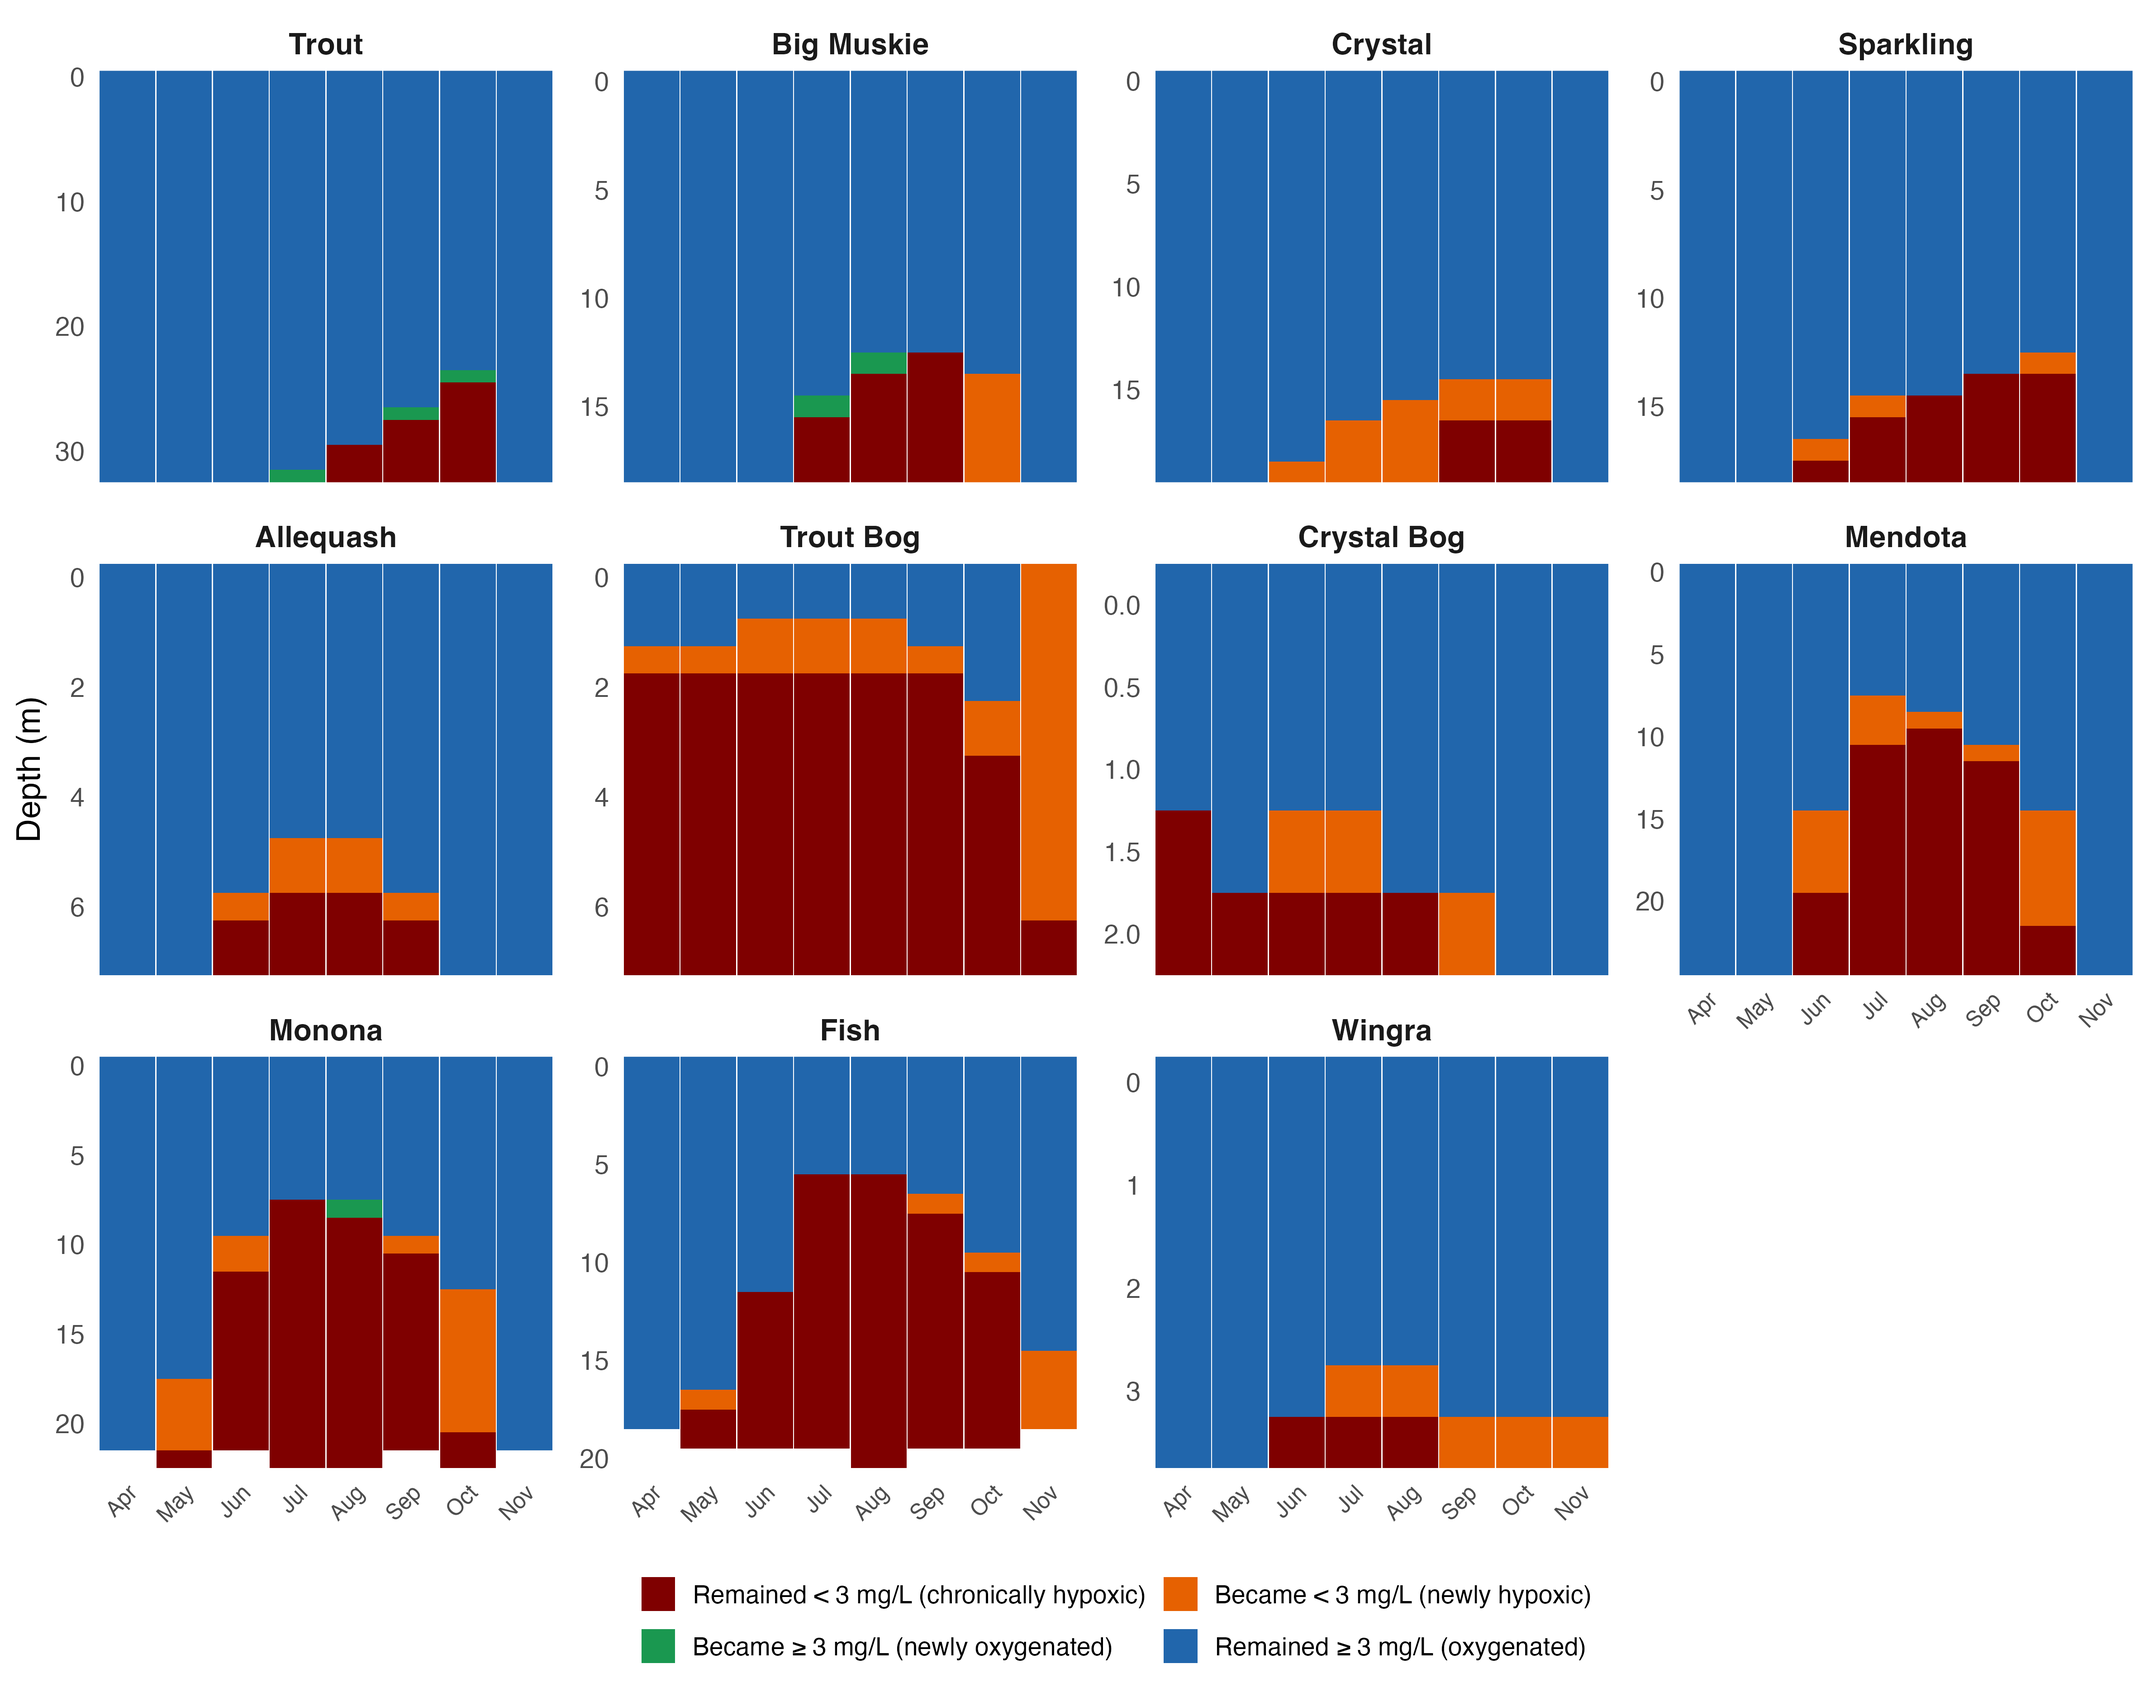
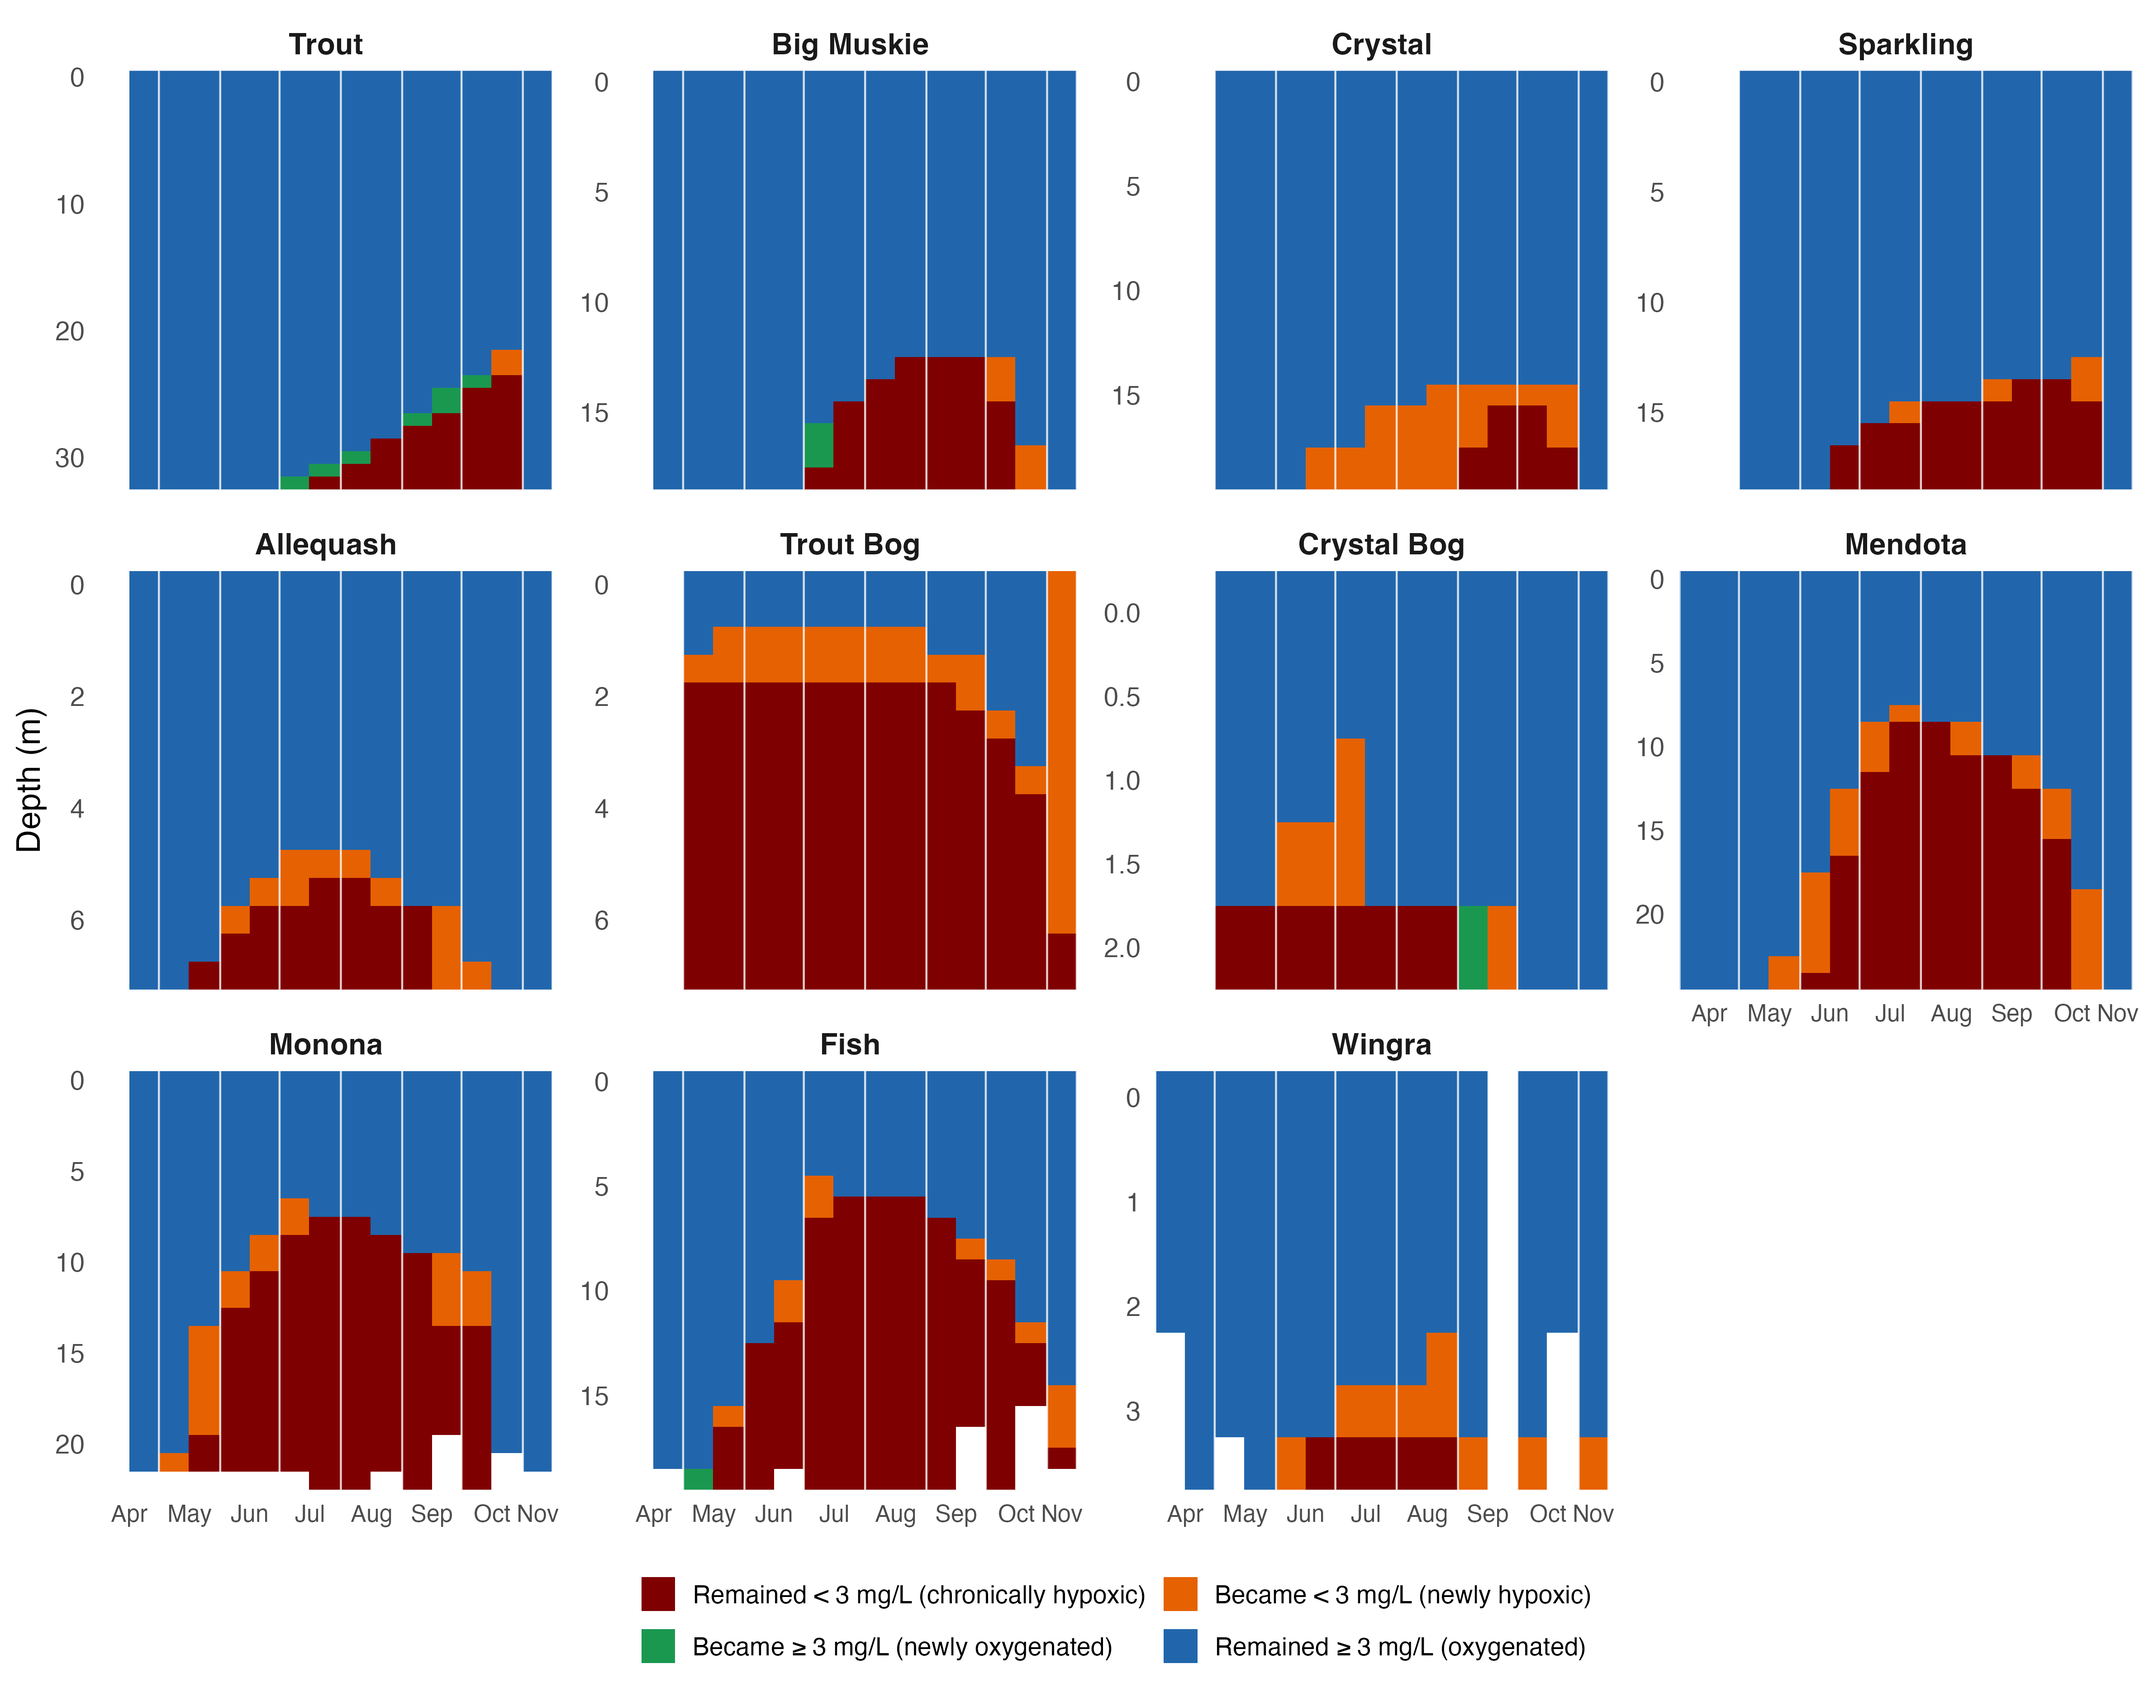
Figure5_habitability: half-month periods instead of calendar months
Switches from 8 monthly bins to Figure1_rate_of_change.R's 15
half-month bins (same Apr 1-Nov 15 edges), giving a smoother, finer
view of when each depth window crosses the 3 mg/L habitat threshold.

diff --git a/README.md b/README.md
@@ -25,7 +25,7 @@ which reads `figures/fig02_trends_table.csv` for its DOC/Secchi arrows.
 | `Figure1_rate_of_change.R` | `fig01_rate_mgL.png`, `fig01_rate_sat.png` — Theil-Sen trend heatmaps by depth & season, all 11 lakes. The DOC/Secchi arrows beside each lake name are read from `figures/fig02_trends_table.csv` rather than fit here — **run `Figure2_clarity_trends.R` first** |
 | `Figure3_o2_profiles.R` | `fig03_o2_profiles.png` — August DO (% saturation) depth profile, all 11 lakes, four overlaid decade medians (1985-1995 / 1995-2005 / 2005-2015 / 2015-2025, blue->green->orange->red). No annotations (no anoxic-boundary markers, no metalimnetic-O2-max diamonds) — just the raw profile shape across decades. Panels built individually + assembled with patchwork (not facet_wrap) so the gap left by the 7th northern lake is a true blank space and the legend is extracted once and placed manually. Independent of the other two `Figure*.R` scripts. Also writes `fig03_o2_profiles_leveladjusted.png` — Crystal/Sparkling/Big Muskellunge only, same decade medians but with each cast's depth adjusted for that day's interpolated lake level (`data/lake_levels.csv`, EDI 30) referenced to the lake's own long-term median level, so depth reads as distance below the long-term average surface rather than below whatever the surface was that day |
 | `Figure4_chl_profiles.R` | `fig04_chl_profiles.png` — August chlorophyll profile shift (1995-2005 vs 2016-2025), 4 northern deep oligotrophic lakes, one row |
-| `Figure5_habitability.R` | `fig05_habitability.png` — habitability by depth x month, all 11 lakes (facet per lake, north then south by zmax). Per lake x depth bin (0.5 m <10 m zmax, 1 m otherwise, same rule as `Figure1_rate_of_change.R`) x month (Apr-Nov), compares median DO (mg/L) baseline (pre-2016) vs recent (2016-2025) against a 3 mg/L habitat threshold: dark red = remained hypoxic, orange = newly hypoxic, green = newly oxygenated, blue = remained oxygenated. Blank = <4 years of data in either era for that cell. Independent of the other `Figure*.R` scripts |
+| `Figure5_habitability.R` | `fig05_habitability.png` — habitability by depth x half-month period, all 11 lakes (facet per lake, north then south by zmax). Per lake x depth bin (0.5 m <10 m zmax, 1 m otherwise) x half-month period (Apr 1-Nov 15, same bin edges as `Figure1_rate_of_change.R`), compares median DO (mg/L) baseline (pre-2016) vs recent (2016-2025) against a 3 mg/L habitat threshold: dark red = remained hypoxic, orange = newly hypoxic, green = newly oxygenated, blue = remained oxygenated. Blank = <4 years of data in either era for that cell. Independent of the other `Figure*.R` scripts |
 | `FigureSD_BM_o2sat.R` | `figSD_BM_o2sat_1996-05.png` (+ legend) — Big Muskellunge O2 saturation panel |
 | `FigureSX_metalimnionwindow.R` | `figSX_metalimnion_window.png` — the metalimnion as a "ribbon through time," all 11 lakes, full 1981-2025 record. Same per-cast classification and eligibility rule as `TableS2_ZoneTrends.R` (`rLakeAnalyzer::meta.depths`; resolved top+bottom AND positively stratified only), but instead of a seasonal climatology the x-axis is real calendar time: each year's run of eligible casts draws its own ribbon polygon (metalimnion top to bottom), colored by year (viridis), so 45 years render as a sequence of pulses with gaps where the lake wasn't resolvably stratified. Shows the raw signal for Crystal Bog/Wingra too (unlike the table, which overrides them to a fixed shallow split) — their sparse/unstable pulses are a visual check on why that override was needed |
 | `Figure_map.R` | `figMap_regions.png` — site map, two side-by-side regional panels (real basemap tiles via `maptiles`/Esri World Light Gray Canvas): Dane County lakes (southern, 4 lakes) and Vilas County lakes (northern, 7 lakes). Each study lake's actual shape is filled light blue from the NHD polygons in `data/GIS/NHLDshp` (no shapefile for Fish Lake, so it stays a plain point). Southern panel carries a small orthographic globe inset locating Madison, WI globally. Needs an internet connection to download tiles at run time. Independent of the other `Figure*.R` scripts |
